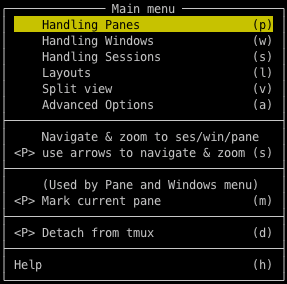
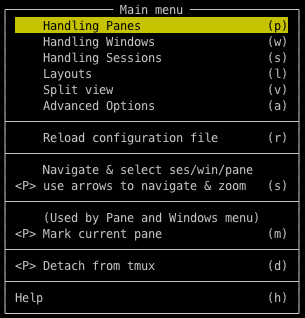
Added Reload Configuration

Changed region(s): [[0.0, 0.0, 1.0, 1.0]]

diff --git a/README.md b/README.md
@@ -6,6 +6,7 @@ Simple to modify to fit your needs. I have included several items that some migh
 
 #### Recent changes
 
+- Added Reload Configuration to main menu
 - Added @menus_without_prefix for triggering menus without using `<prefix>`
 
 ## Purpose
